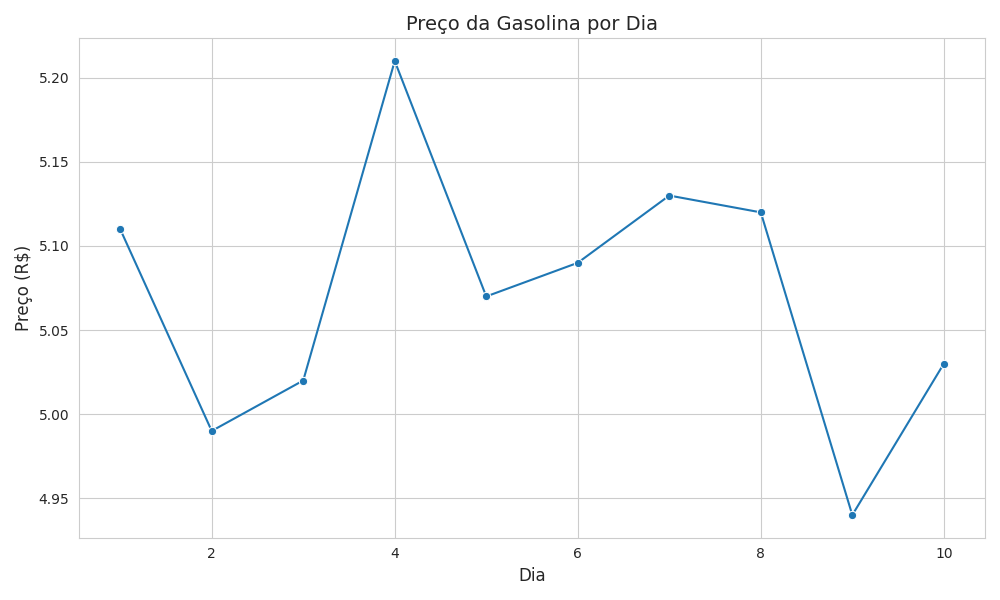
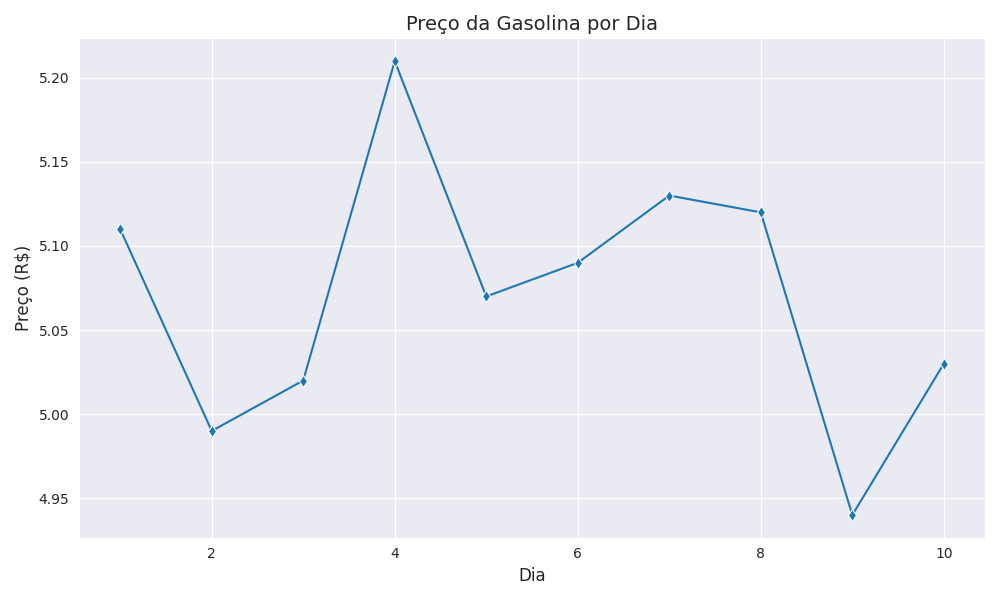
Versão develop

Changed region(s): [[0.186, 0.69, 0.217, 0.72]]

diff --git a/gasolina.py b/gasolina.py
@@ -7,11 +7,11 @@ import seaborn as sns
 df = pd.read_csv('gasolina.csv')
 
 # Define o estilo visual do Seaborn
-sns.set_style("whitegrid")
+sns.set_style("darkgrid")
 
 # Cria o gráfico de linha com Seaborn
 plt.figure(figsize=(10, 6))  # Define o tamanho da figura
-sns.lineplot(x='dia', y='venda', data=df, marker='o')  # Cria o gráfico de linha com marcadores circulares
+sns.lineplot(x='dia', y='venda', data=df, marker='*')  # Cria o gráfico de linha com marcadores circulares
 plt.title('Preço da Gasolina por Dia', fontsize=14)  # Define o título do gráfico
 plt.xlabel('Dia', fontsize=12)  # Define o rótulo do eixo x
 plt.ylabel('Preço (R$)', fontsize=12)  # Define o rótulo do eixo y
@@ -24,3 +24,4 @@ plt.savefig('gasolina.png')
 
 # Mostra o gráfico na tela
 plt.show()
+    
